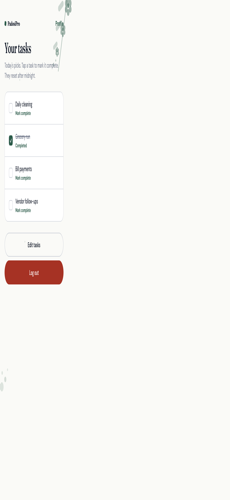
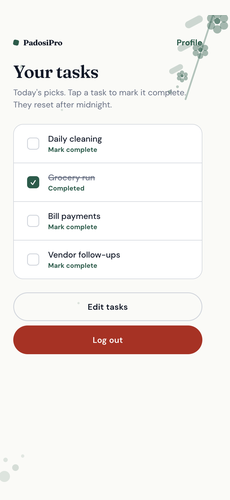
chore: updated screenshots in teh readme file

diff --git a/README.md b/README.md
@@ -5,12 +5,12 @@ Neighborhood task helper: Expo (React Native) mobile app + Express API, Postgres
 ## Screenshots
 
 | Welcome | Create account | Sign in |
-| --- | --- | --- |
-| ![Welcome screen](docs/screenshots/welcome.png) | ![Register screen](docs/screenshots/register.png) | ![Login screen](docs/screenshots/login.png) |
+| :---: | :---: | :---: |
+| <img src="docs/screenshots/welcome.png" alt="Welcome screen" width="230" /> | <img src="docs/screenshots/register.png" alt="Register screen" width="230" /> | <img src="docs/screenshots/login.png" alt="Login screen" width="230" /> |
 
 | Home | Tasks | Profile |
-| --- | --- | --- |
-| ![Home screen](docs/screenshots/home.png) | ![Tasks screen](docs/screenshots/tasks.png) | ![Profile screen](docs/screenshots/profile.png) |
+| :---: | :---: | :---: |
+| <img src="docs/screenshots/home.png" alt="Home screen" width="230" /> | <img src="docs/screenshots/tasks.png" alt="Tasks screen" width="230" /> | <img src="docs/screenshots/profile.png" alt="Profile screen" width="230" /> |
 
 ## Prerequisites
 
